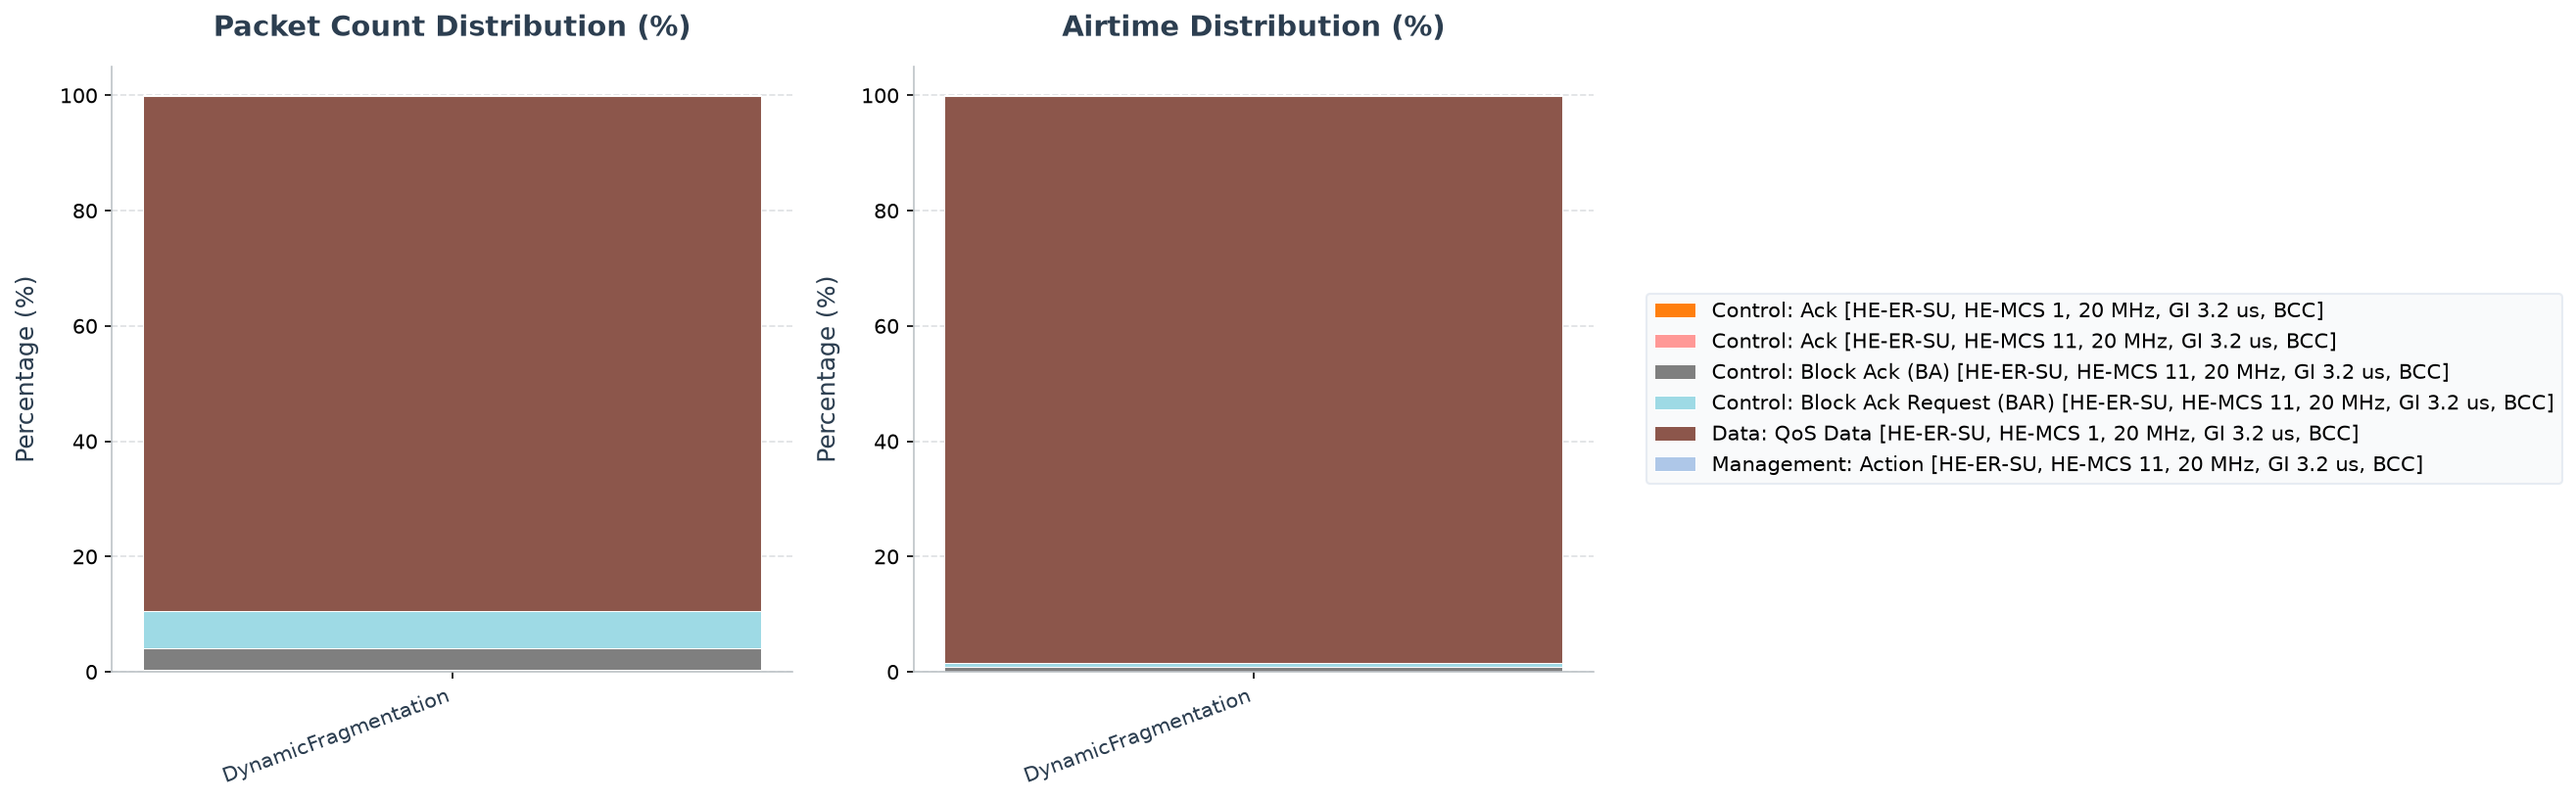
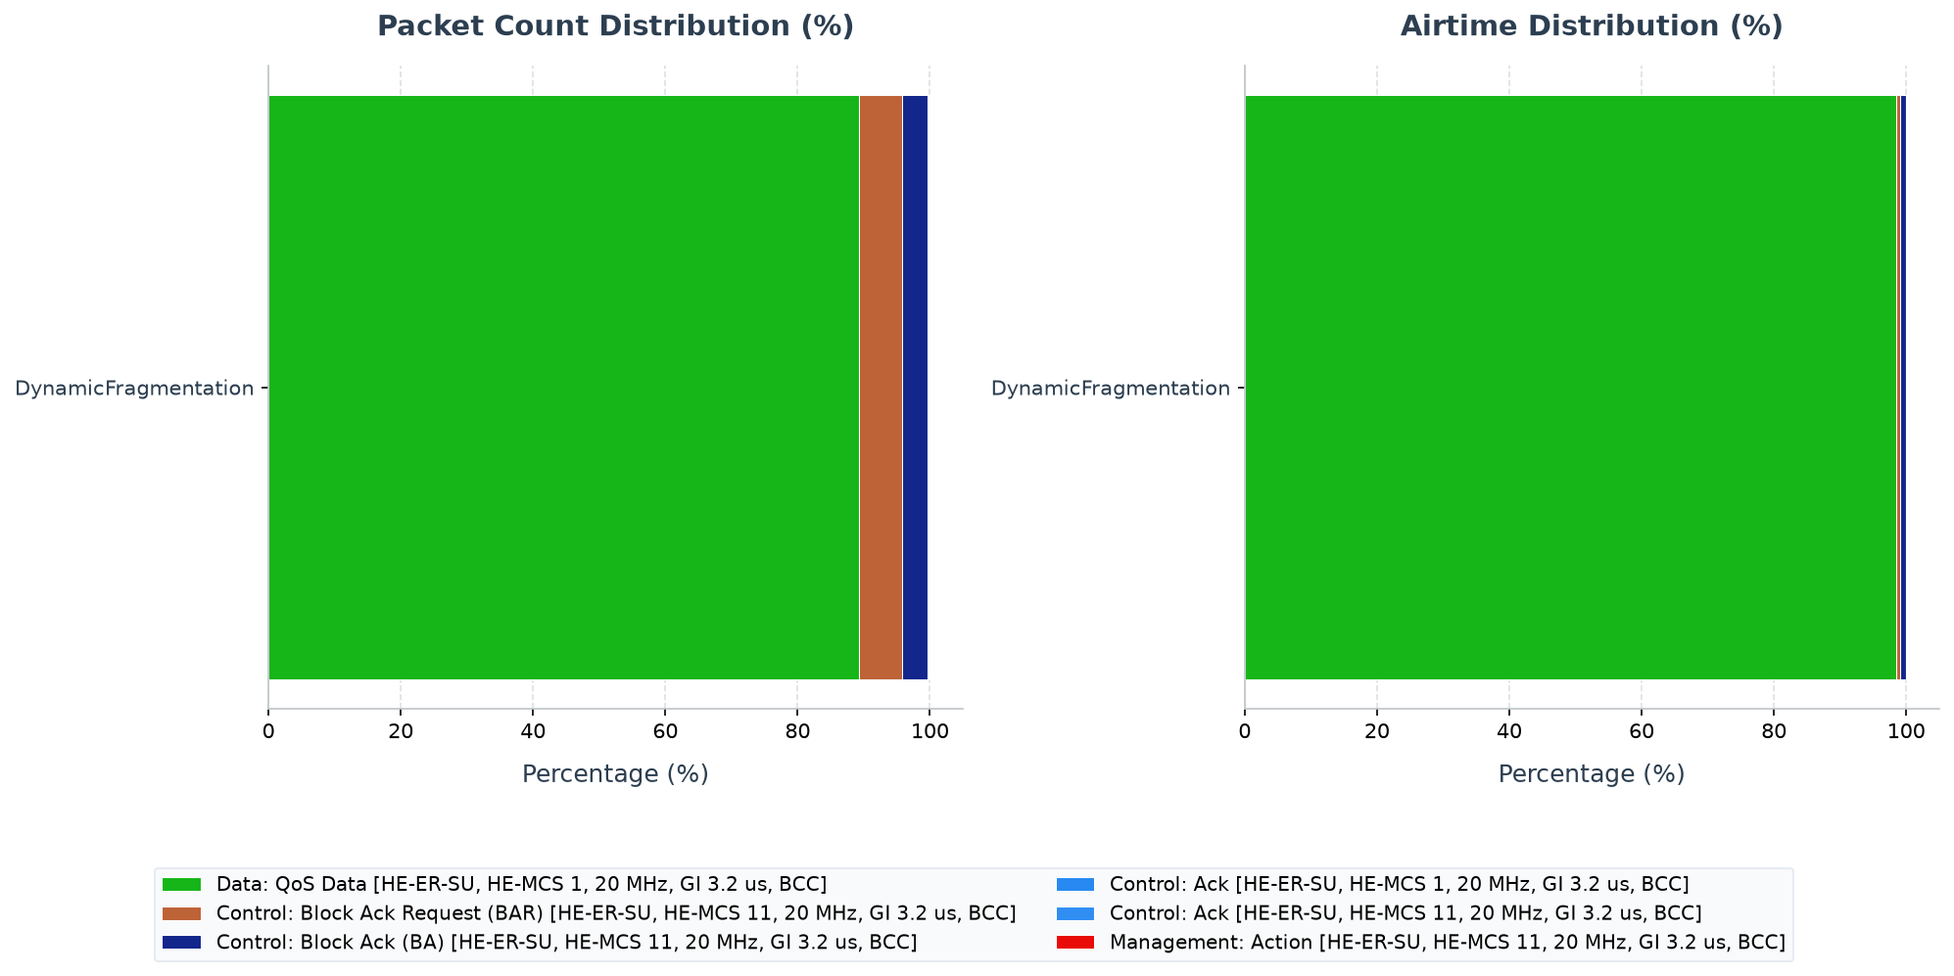
fix(802.11ax): adjustments to the plots in example simulation walkthrough.md files
Horizontal Stacked-Bar Plots and Repositioned Legend

Updated the plotting script `analyze_pcap_types.py` to draw horizontal stacked-bar charts, place the common legend below the subplots, and enforce a permanent, consistent, and custom-ordered color mapping across all examples in the `examples/ieee80211ax` directory.

---

## Changes Implemented

### 1. Stable Stacking Order of Packet Types
To ensure that stacked segments align identically across all plots, we defined a global ordered list `ORDERED_BASE_TYPES` with the following sequence:
- **Data Frames** (left-most / bottom of the stack): Data (Regular), QoS Data, QoS Null.
- **Control Frames** (middle): Trigger, PS-Poll, HE TB feedback NDP, Block Ack Request (BAR), Block Ack (BA), Ack.
- **Management Frames** (right-most / top of the stack): Beacons, Probe Request/Response, Association Request/Response, Authentication, Action.

A custom sorting key `get_sort_key(pt)` determines the bar stacking order based on these categories, falling back to alphabetical order for sub-variants (e.g. different MCS or bandwidths of the same frame type).

### 2. Base Color Mapping and HSL-based Subtype Variations
We implemented HSL (Hue, Saturation, Lightness) color mapping in the `get_packet_color(pt)` helper function. This maps the main categories to their designated colors and generates deterministic, visually distinct shades for their subtypes:
- **Data**
  - Regular Data: Light Green
  - QoS Data: Green
  - QoS Null: Dark Green
[…]

diff --git a/examples/ieee80211ax/analysis/analyze_pcap_types.py b/examples/ieee80211ax/analysis/analyze_pcap_types.py
@@ -28,6 +28,8 @@ import matplotlib
 matplotlib.use('Agg')
 import matplotlib.pyplot as plt
 import numpy as np
+import zlib
+import colorsys
 
 # Resolve project repository root (3 levels up from this file)
 REPOSITORY_ROOT = Path(__file__).resolve().parents[3]
@@ -840,6 +842,103 @@ def make_table_md(stats, total):
         md.append(f"| {name} | {stat['count']} | {pct:.2f}% | {mean_sz} | {std_sz} | {mean_dur} | {std_dur} | {freq_str} | {rx_sig_str} | {tx_pwr_str} | {air_pct} | {air_sim_pct} |\n")
     return "".join(md)
 
+ORDERED_BASE_TYPES = [
+    # Data
+    "Data: Data",
+    "Data: QoS Data",
+    "Data: QoS Null",
+    # Control
+    "Control: Trigger",
+    "Control: PS-Poll",
+    "Control: HE TB feedback NDP",
+    "Control: Block Ack Request",
+    "Control: Block Ack",
+    "Control: Ack",
+    # Management
+    "Management: Beacon",
+    "Management: Probe Request",
+    "Management: Probe Response",
+    "Management: Association Request",
+    "Management: Association Response",
+    "Management: Authentication",
+    "Management: Action",
+]
+
+def get_base_type(pt):
+    return pt.split(" [")[0].split(" (")[0]
+
+def get_sort_key(pt):
+    base = get_base_type(pt)
+    if base in ORDERED_BASE_TYPES:
+        return (ORDERED_BASE_TYPES.index(base), pt)
+    else:
+        return (len(ORDERED_BASE_TYPES), pt)
+
+def get_packet_color(pt):
+    base = get_base_type(pt)
+    
+    # Define base HSL values for each category
+    # Hue: 0-360, Saturation: 0-100 (%), Lightness: 0-100 (%)
+    if base == "Data: Data":  # Regular data (Light Green)
+        h, s, l = 120, 65, 75
+    elif base == "Data: QoS Data":  # QoS (Green)
+        h, s, l = 120, 70, 45
+    elif base == "Data: QoS Null":  # QoS Null (Dark Green)
+        h, s, l = 120, 75, 22
+    elif base == "Control: Ack":  # Ack (Blue)
+        h, s, l = 210, 80, 60
+    elif base == "Control: Block Ack Request":  # BAR (Brown)
+        h, s, l = 25, 55, 42
+    elif base == "Control: Block Ack":  # BA (Dark Blue)
+        h, s, l = 225, 85, 35
+    elif base == "Control: Trigger":  # Trigger (Orange)
+        h, s, l = 35, 95, 50
+    elif base == "Control: HE TB feedback NDP":  # Gold/Yellow
+        h, s, l = 50, 95, 48
+    elif base == "Control: PS-Poll":  # Light Blue/Steel Blue
+        h, s, l = 195, 75, 65
+    elif base == "Management: Action":  # Action (Red)
+        h, s, l = 0, 85, 50
+    elif base == "Management: Beacon":  # Beacon (Crimson/Dark Red)
+        h, s, l = 350, 90, 32
+    elif base == "Management: Authentication":  # Pink
+        h, s, l = 330, 85, 65
+    elif base == "Management: Association Request":  # Rose
+        h, s, l = 310, 80, 55
+    elif base == "Management: Association Response":  # Light Purple/Violet
+        h, s, l = 290, 75, 60
+    elif base == "Management: Probe Request":  # Salmon/Coral
+        h, s, l = 15, 85, 65
+    elif base == "Management: Probe Response":  # Light Salmon
+        h, s, l = 15, 85, 75
+    else:
+        # Unknown: use a default hashed color
+        val = zlib.adler32(pt.encode('utf-8'))
+        h = val % 360
+        s = 60
+        l = 50
+        r, g, b = colorsys.hls_to_rgb(h / 360.0, l / 100.0, s / 100.0)
+        return matplotlib.colors.to_hex((r, g, b))
+
+    # Perturb HSL based on the suffix (to distinguish subtypes visually)
+    suffix = pt[len(base):]
+    if suffix:
+        val = zlib.adler32(suffix.encode('utf-8'))
+        # Perturb Hue by +/- 8 degrees
+        h_offset = (val % 17) - 8
+        h = (h + h_offset) % 360
+        
+        # Perturb Saturation by +/- 10%, keeping within [10, 100]
+        s_offset = ((val >> 4) % 21) - 10
+        s = max(10, min(100, s + s_offset))
+        
+        # Perturb Lightness by +/- 8%, keeping within [10, 90]
+        l_offset = ((val >> 8) % 17) - 8
+        l = max(10, min(90, l + l_offset))
+        
+    r, g, b = colorsys.hls_to_rgb(h / 360.0, l / 100.0, s / 100.0)
+    return matplotlib.colors.to_hex((r, g, b))
+
 def generate_stacked_bar_plot(config_results, subdir, color_map):
     # Filter configs that have global stats
     valid_configs = []
@@ -859,7 +958,7 @@ def generate_stacked_bar_plot(config_results, subdir, color_map):
             name = unpack_key_to_name(key)
             packet_types.add(name)
             
-    packet_types = sorted(list(packet_types))
+    packet_types = sorted(list(packet_types), key=get_sort_key)
     
     # Prepare data for plotting
     num_configs = len(valid_configs)
@@ -881,20 +980,21 @@ def generate_stacked_bar_plot(config_results, subdir, color_map):
     plt.rcParams['font.sans-serif'] = 'DejaVu Sans'
     plt.rcParams['font.family'] = 'sans-serif'
     
-    fig, (ax1, ax2) = plt.subplots(1, 2, figsize=(14, 6))
+    fig, (ax1, ax2) = plt.subplots(1, 2, figsize=(14, 8.2))
     
-    x = np.arange(num_configs)
-    width = 0.45
+    y = np.arange(num_configs)
+    height = 0.45
     
     # Helper to format axes
     def style_axis(ax, title):
         ax.set_title(title, fontsize=14, pad=15, weight='bold', color='#2c3e50')
-        ax.set_ylabel("Percentage (%)", fontsize=12, labelpad=10, color='#2c3e50')
-        ax.set_xticks(x)
-        ax.set_xticklabels(valid_configs, rotation=20, ha="right", fontsize=10, color='#2c3e50')
-        ax.set_ylim(0, 105)
-        ax.grid(axis='y', linestyle='--', alpha=0.5, color='#bdc3c7')
+        ax.set_xlabel("Percentage (%)", fontsize=12, labelpad=10, color='#2c3e50')
+        ax.set_yticks(y)
+        ax.set_yticklabels(valid_configs, fontsize=10, color='#2c3e50')
+        ax.set_xlim(0, 105)
+        ax.grid(axis='x', linestyle='--', alpha=0.5, color='#bdc3c7')
         ax.set_axisbelow(True)
+        ax.invert_yaxis()  # Keep configuration list top-to-bottom
         # Remove top and right spines
         for spine in ['top', 'right']:
             ax.spines[spine].set_visible(False)
@@ -904,22 +1004,22 @@ def generate_stacked_bar_plot(config_results, subdir, color_map):
     # Plot Count Percentages
     bottom_count = np.zeros(num_configs)
     for pt in packet_types:
-        ax1.bar(x, count_data[pt], width, bottom=bottom_count, label=pt, color=color_map[pt], edgecolor='white', linewidth=0.5)
+        ax1.barh(y, count_data[pt], height, left=bottom_count, label=pt, color=color_map[pt], edgecolor='white', linewidth=0.5)
         bottom_count += count_data[pt]
     style_axis(ax1, "Packet Count Distribution (%)")
     
     # Plot Air Time Percentages
     bottom_air = np.zeros(num_configs)
     for pt in packet_types:
-        ax2.bar(x, airtime_data[pt], width, bottom=bottom_air, label=pt, color=color_map[pt], edgecolor='white', linewidth=0.5)
+        ax2.barh(y, airtime_data[pt], height, left=bottom_air, label=pt, color=color_map[pt], edgecolor='white', linewidth=0.5)
         bottom_air += airtime_data[pt]
     style_axis(ax2, "Airtime Distribution (%)")
     
-    # Common Legend on the right side
+    # Common Legend below the plots
     handles, labels = ax1.get_legend_handles_labels()
-    fig.legend(handles, labels, loc='center left', bbox_to_anchor=(0.82, 0.5), fontsize=10, frameon=True, facecolor='#f8f9fa', edgecolor='#e2e8f0')
+    fig.legend(handles, labels, loc='upper center', bbox_to_anchor=(0.5, 0.23), ncol=2, fontsize=9.5, frameon=True, facecolor='#f8f9fa', edgecolor='#e2e8f0')
     
-    plt.tight_layout(rect=[0.02, 0.02, 0.81, 0.95])
+    plt.tight_layout(rect=[0.02, 0.27, 0.98, 0.95])
     
     # Save path
     plot_dir = REPOSITORY_ROOT / "examples" / "ieee80211ax" / subdir
@@ -1095,9 +1195,8 @@ def main():
                     
     global_packet_types = sorted(list(global_packet_types))
     
-    # Assign a fixed color to each global packet type from the tab20 palette
-    cmap = matplotlib.colormaps["tab20"]
-    global_color_map = {pt: cmap(i % cmap.N) for i, pt in enumerate(global_packet_types)}
+    # Assign a permanent color to each global packet type using HSL-based mapping
+    global_color_map = {pt: get_packet_color(pt) for pt in global_packet_types}
 
     for subdir, res in all_results.items():
         generate_stacked_bar_plot(res, subdir, global_color_map)
